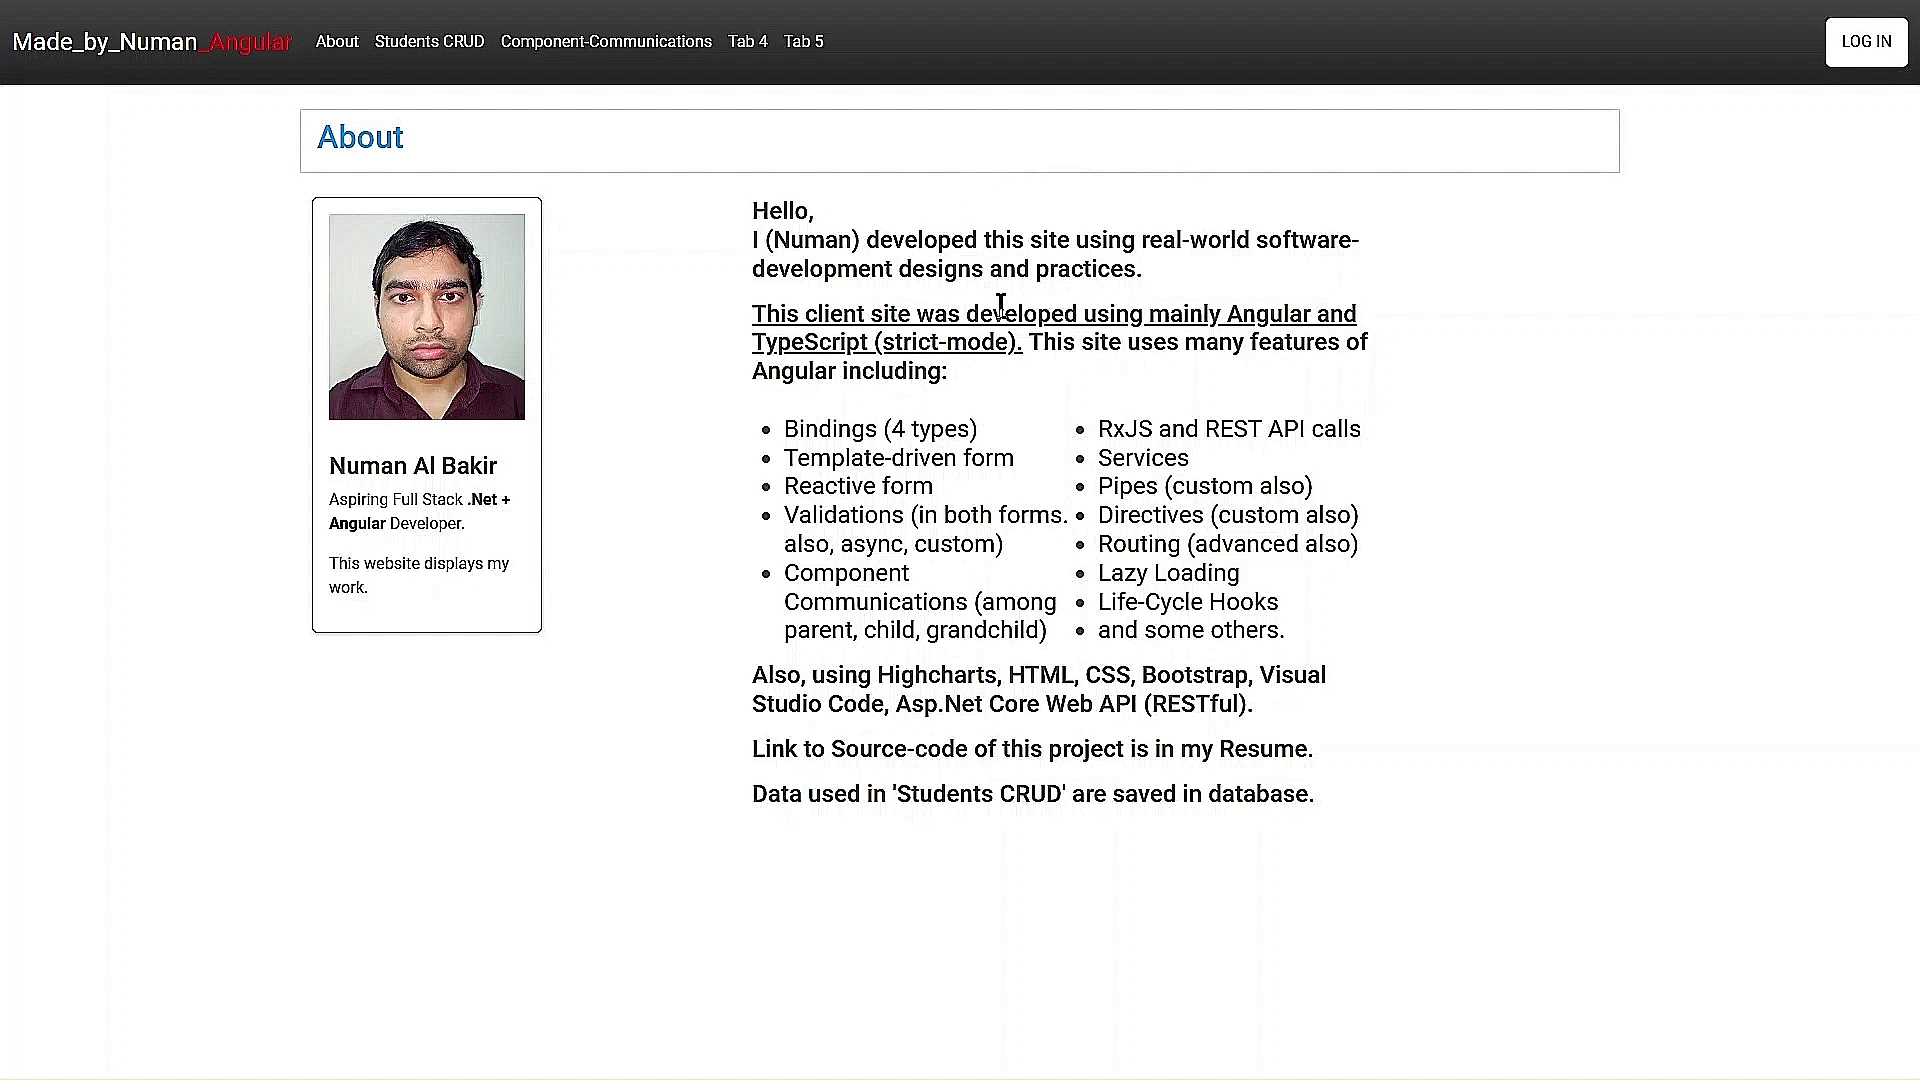
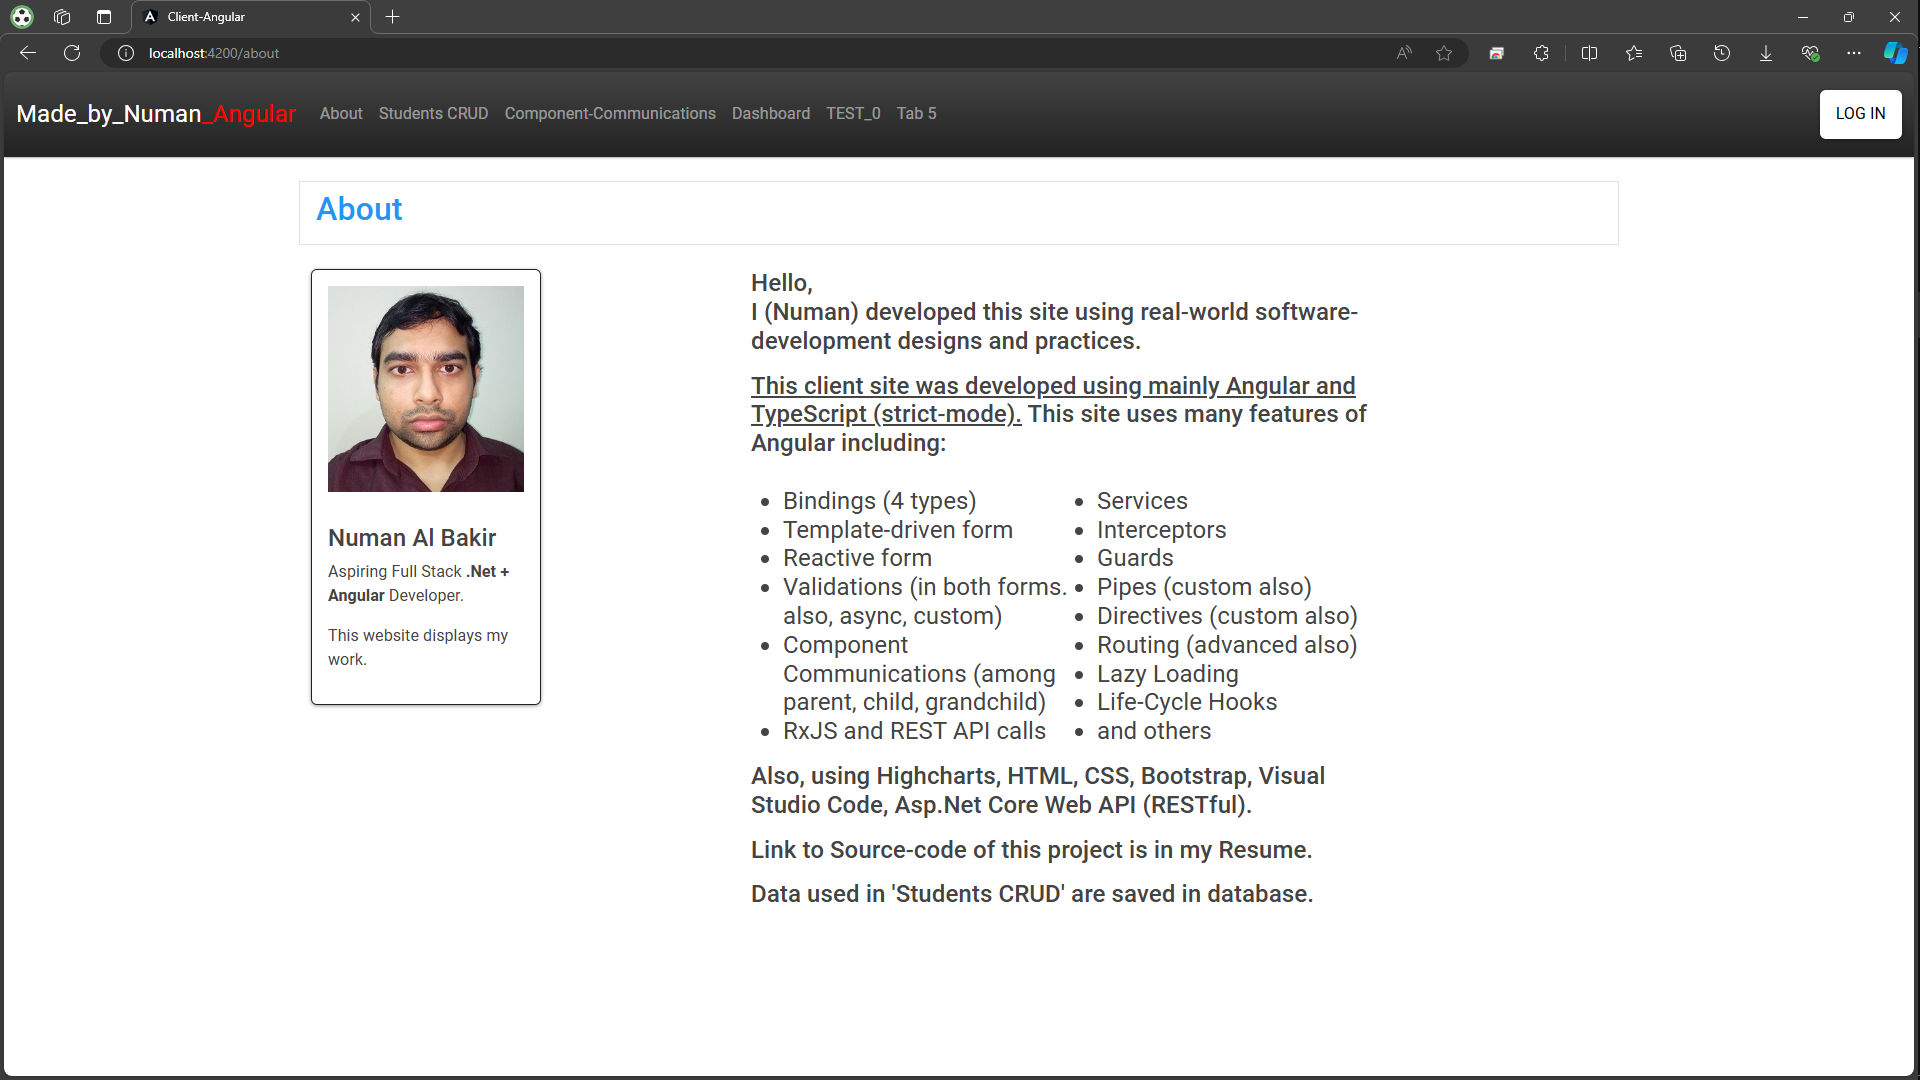
improvs

diff --git a/Client-Angular/src/app/components/about/about.component.html b/Client-Angular/src/app/components/about/about.component.html
@@ -55,13 +55,14 @@
                             <li>Component Communications (among parent, child, grandchild)</li>
                             <li>RxJS and REST API calls</li>
                             <li>Services</li>
+                            <li>Interceptors</li>
+                            <li>Guards</li>
                             <li>Pipes (custom also)</li>
                             <li>Directives (custom also)</li>
                             <li>Routing (advanced also)</li>
                             <li>Lazy Loading</li>
                             <li>Life-Cycle Hooks</li>
-                            <!-- <li>Renderer2</li> -->
-                            <li>and some others.</li>
+                            <li>and others</li>
                         </ul>
                     </span>
                 </h4>

diff --git a/Client-Angular/src/app/app.module.ts b/Client-Angular/src/app/app.module.ts
@@ -18,6 +18,8 @@ import { DashboardComponent } from './dashboard/dashboard.component';
 import { ToastrModule } from 'ngx-toastr';
 import { JsTestComponent } from './jsTest/jsTest.component';
 import { LoadScriptDirective } from './jsTest/LoadScriptDirective.directive';
+import { HTTP_INTERCEPTORS } from '@angular/common/http';
+import { JwtInterceptor } from './admin/_interceptors/jwt.interceptor';
 
 @NgModule({
   declarations: [
@@ -44,6 +46,7 @@ import { LoadScriptDirective } from './jsTest/LoadScriptDirective.directive';
   ],
   providers: [
     { provide: 'BASE_URL', useFactory: getBaseUrl },
+    { provide: HTTP_INTERCEPTORS, useClass: JwtInterceptor, multi: true }
   ],
   bootstrap: [AppComponent]
 })

diff --git a/Client-Angular/src/app/admin/_interceptors/jwt.interceptor.ts b/Client-Angular/src/app/admin/_interceptors/jwt.interceptor.ts
@@ -1,0 +1,25 @@
+import { Injectable } from '@angular/core';
+import {
+  HttpRequest,
+  HttpHandler,
+  HttpEvent,
+  HttpInterceptor
+} from '@angular/common/http';
+import { Observable } from 'rxjs';
+
+@Injectable()
+export class JwtInterceptor implements HttpInterceptor {
+
+  constructor() { }
+
+  intercept(request: HttpRequest<unknown>, next: HttpHandler): Observable<HttpEvent<unknown>> {
+
+    request = request.clone({
+      setHeaders: {
+        Authorization: 'Bearer my.sample.jwt'
+      }
+    });
+
+    return next.handle(request);
+  }
+}

diff --git a/Client-Angular/src/app/app-routing.module.ts b/Client-Angular/src/app/app-routing.module.ts
@@ -10,7 +10,7 @@ import { Test_0Component } from './test_0/test_0.component';
 import { JsTestComponent } from './jsTest/jsTest.component';
 
 const routes: Routes = [
-  { path: '', redirectTo: 'jstest', pathMatch: 'full' },
+  { path: '', redirectTo: 'about', pathMatch: 'full' },
   { path: 'about', component: AboutComponent },
   { path: 'componentcommunications', component: ParentComponent },
   { path: 'login', component: LoginComponent },
